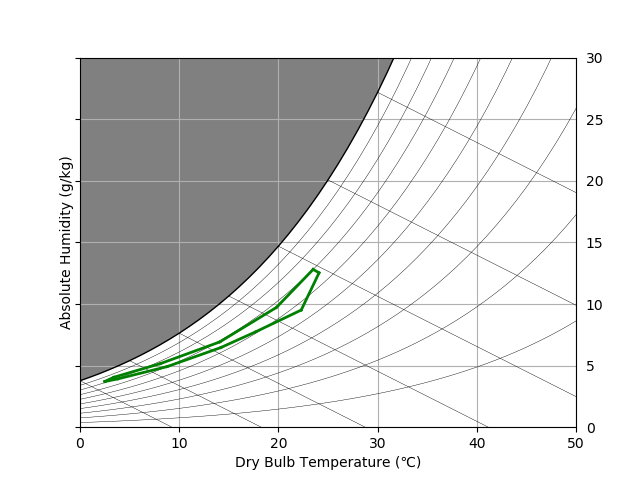
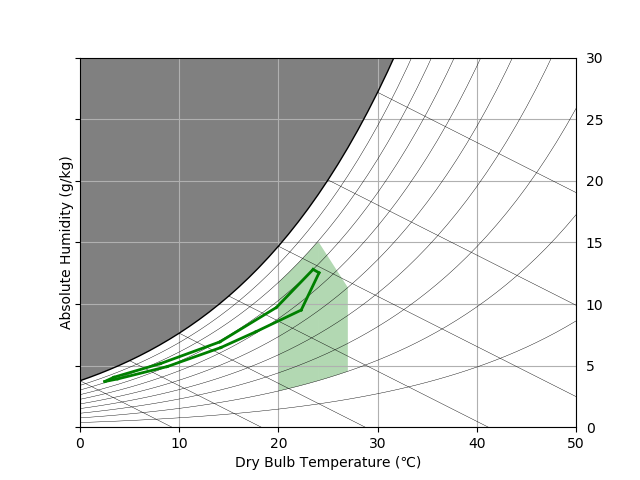
add confort zone area

Changed region(s): [[0.4375, 0.5, 0.5625, 0.8125]]

diff --git a/parse_per_file_govoni.py b/parse_per_file_govoni.py
@@ -121,6 +121,21 @@ def draw_climograph(_dict_of_month):
         else:
             raise ValueError("Moisture clue missing.")
 
+"""
+快適温度範囲を描画
+2つの領域に分けて描画。湿球21℃（華氏70）、相対湿度80%のところの点は計算ではなく読み取りで、
+乾球温度24℃とする。そこから絶対湿度の算出は、abs_moist_relhum(24,0.8)でいいので
+24,abs_moist_relhum(24,0.8)と27,abs_moist_relhum(27,0.5)を通る直線。
+(x_values_2-24)*(abs_moist_relhum(27,50)-abs_moist_relhum(24,80))/3+abs_moist_relhum(24,80)
+"""
+
+def draw_confortzone(_plt):
+    x_values_1 = np.arange(20, 24+1, 1)
+    _plt.fill_between(x_values_1,abs_moist_relhum(x_values_1,20),abs_moist_relhum(x_values_1,80),facecolor='green',alpha=0.3)
+    x_values_2 = np.arange(24, 27+1, 1)
+    #print(abs_moist_relhum(24,80))
+    _plt.fill_between(x_values_2,abs_moist_relhum(x_values_2,20),(x_values_2-24)*(abs_moist_relhum(27,50)-abs_moist_relhum(24,80))/3+abs_moist_relhum(24,80),facecolor='green',alpha=0.3)
+
 def log_error(_any):
     with open("error.log","a",encoding="utf8") as f:
         f.write(str(_any)+"\n")
@@ -134,6 +149,7 @@ def main(_path):
 
     draw_bg(plt)
     draw_climograph(dict_of_month)
+    draw_confortzone(plt)
 
     plt.xlim(0, max_temperature)
     plt.ylim(0, max_abs_moist)
